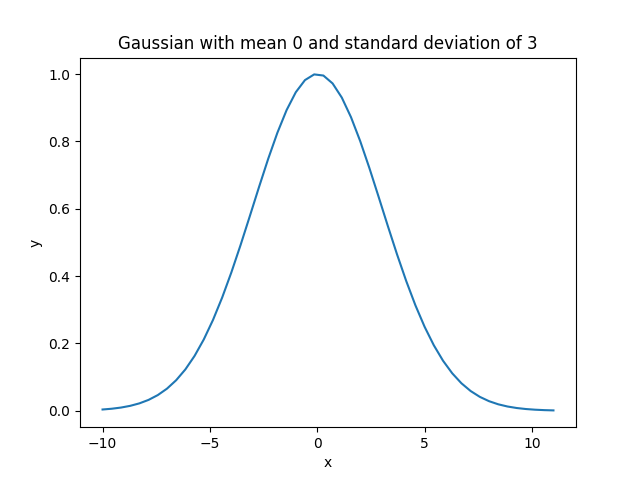
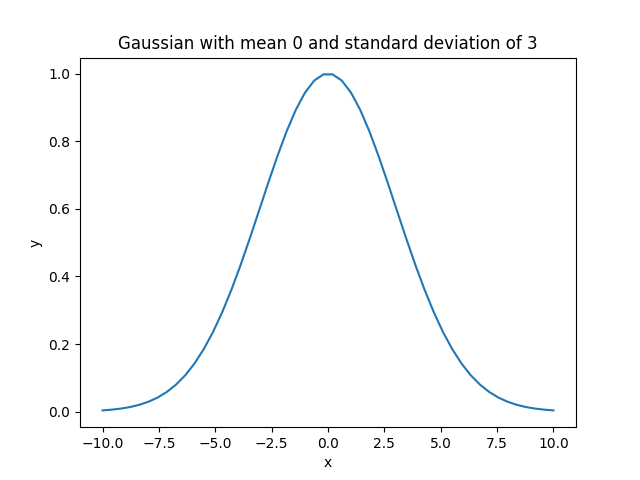
fixing range of x axis

diff --git a/plot_gaussian.py b/plot_gaussian.py
@@ -9,7 +9,7 @@ def gaussian(xrange, mean = 0, stddev = 1):
     return np.exp(-np.power(np.subtract(xrange, mean),2)/(np.multiply(2,stddev**2)))
 
 # plotting 50 x and y values of the gaussian
-xrange = np.linspace(-10,11, 50)
+xrange = np.linspace(-10,10, 50, endpoint = True)
 yrange = gaussian(xrange, mean = 0, stddev= 3)
 
 #Plotting and saving using matplotlib
